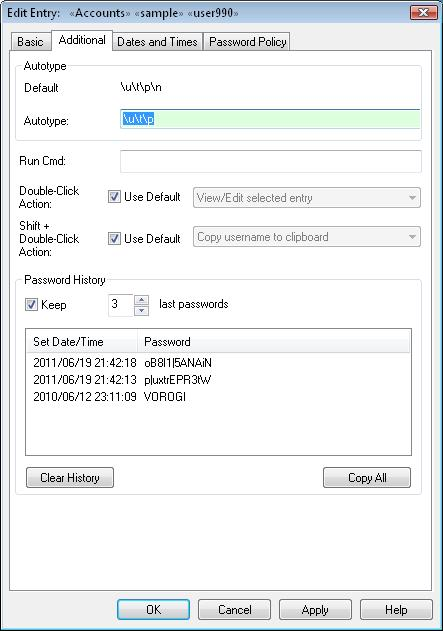
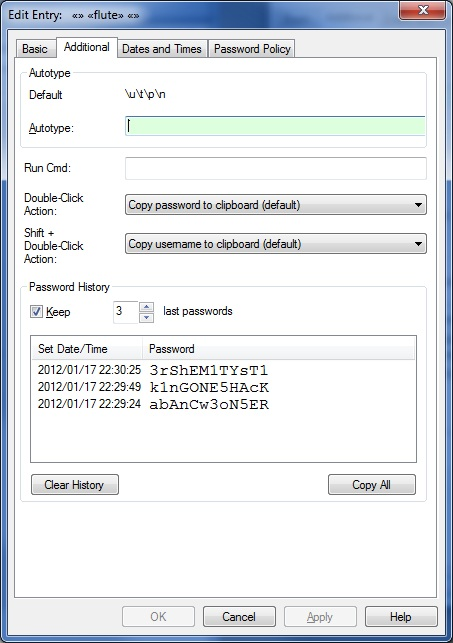
Finished cleaunp AddEdit_Additional

Changed region(s): [[0.0, 0.0, 1.0, 1.0]]

diff --git a/pwsafe/pwsafe/help/default/html/entering_pwd_add.html b/pwsafe/pwsafe/help/default/html/entering_pwd_add.html
@@ -34,10 +34,14 @@ to be run via the 'Run Command' action (via the Edit menu, right-click popup
 menu or Ctrl-R). <b>Password Safe</b> is able to pass arguments to the command
 such as the entry's username, password, etc., as described <a href="run_command.html">here</a>.</li>
 
-<li><b>Double click on entry:</b> This allows you to define what action
+<li><b>Double click and Shift-Double click on entry:</b> This allows you to define what action
 <b>Password Safe</b> will take when
-you double-click on an entry. The default is to copy the entry's
-password to the clipboard. The default action is set in <a href="misc_tab.html">
+you double-click, or double-click with Shift depressed, on an
+entry. The default is to copy the entry's password and username to the
+clipboard for double-click and shift + double-click, respectively. The
+default actions are set in <a href="misc_tab.html">, and marked with
+  "(default)" in the drop-down lists.
+
 "Manage&nbsp;&rarr;&nbsp;Options&nbsp;&rarr;&nbsp;Misc."</a> tab.</li>
 <li><b>Password History:</b> It is possible to configure <b>Password Safe</b>
 to save the last few passwords of an entry. This can be done either when the entry is created,

diff --git a/pwsafe/pwsafe/src/ui/Windows/AddEdit_Additional.cpp b/pwsafe/pwsafe/src/ui/Windows/AddEdit_Additional.cpp
@@ -34,8 +34,8 @@ CAddEdit_Additional::CAddEdit_Additional(CWnd * pParent, st_AE_master_data *pAEM
   : CAddEdit_PropertyPage(pParent, 
                           CAddEdit_Additional::IDD, CAddEdit_Additional::IDD_SHORT,
                           pAEMD),
-  m_UseDefaultDCA(TRUE), m_UseDefaultShiftDCA(TRUE), m_ClearPWHistory(false),
-  m_bSortAscending(true), m_pToolTipCtrl(NULL), m_bInitdone(false), m_iSortedColumn(-1)
+  m_ClearPWHistory(false), m_bSortAscending(true),
+  m_pToolTipCtrl(NULL), m_bInitdone(false), m_iSortedColumn(-1)
 {
   if (M_MaxPWHistory() == 0)
     M_MaxPWHistory() = PWSprefs::GetInstance()->
@@ -54,9 +54,6 @@ void CAddEdit_Additional::DoDataExchange(CDataExchange* pDX)
   //{{AFX_DATA_MAP(CAddEdit_Additional)
   DDX_Text(pDX, IDC_AUTOTYPE, (CString&)M_autotype());
   DDX_Text(pDX, IDC_RUNCMD, (CString&)M_runcommand());
-
-  DDX_Check(pDX, IDC_DCA_DEFAULT, m_UseDefaultDCA);
-  DDX_Check(pDX, IDC_SHIFT_DCA_DEFAULT, m_UseDefaultShiftDCA);
 
   DDX_Control(pDX, IDC_AUTOTYPE, m_ex_autotype);
   DDX_Control(pDX, IDC_RUNCMD, m_ex_runcommand);
@@ -85,9 +82,7 @@ BEGIN_MESSAGE_MAP(CAddEdit_Additional, CAddEdit_PropertyPage)
   ON_EN_CHANGE(IDC_RUNCMD, OnChanged)
 
   ON_CONTROL_RANGE(STN_CLICKED, IDC_STATIC_AUTO, IDC_STATIC_RUNCMD, OnSTCExClicked)
-  ON_BN_CLICKED(IDC_DCA_DEFAULT, OnSetDCACheck)
   ON_CBN_SELCHANGE(IDC_DOUBLE_CLICK_ACTION, OnDCAComboChanged)
-  ON_BN_CLICKED(IDC_SHIFT_DCA_DEFAULT, OnSetShiftDCACheck)
   ON_CBN_SELCHANGE(IDC_SHIFT_DOUBLE_CLICK_ACTION, OnShiftDCAComboChanged)
 
   // Password History
@@ -168,41 +163,28 @@ BOOL CAddEdit_Additional::OnInitDialog()
     GetDlgItem(IDC_AUTOTYPE)->SendMessage(EM_SETREADONLY, TRUE, 0);
     GetDlgItem(IDC_RUNCMD)->SendMessage(EM_SETREADONLY, TRUE, 0);
 
-    // Disable Checkbox
-    GetDlgItem(IDC_DCA_DEFAULT)->EnableWindow(FALSE);
+    // Disable Combobox
     GetDlgItem(IDC_DOUBLE_CLICK_ACTION)->EnableWindow(FALSE);
-    GetDlgItem(IDC_SHIFT_DCA_DEFAULT)->EnableWindow(FALSE);
     GetDlgItem(IDC_SHIFT_DOUBLE_CLICK_ACTION)->EnableWindow(FALSE);
   }
 
   // For some reason, MFC calls us twice when initializing.
-  // Populate the combo box only once.
+  // SetupDCAComboBoxes is idempotent
   SetupDCAComboBoxes(&m_dblclk_cbox, false);
   SetupDCAComboBoxes(&m_shiftdblclk_cbox, true);
 
-  if (M_DCA() < PWSprefs::minDCA || M_DCA() > PWSprefs::maxDCA) {
-    short iDCA = (short)PWSprefs::GetInstance()->
-                      GetPref(PWSprefs::DoubleClickAction);
-    m_dblclk_cbox.SetCurSel(m_DCA_to_Index[iDCA]);
-    m_dblclk_cbox.EnableWindow(FALSE);
-    m_UseDefaultDCA = TRUE;
-  } else {
-    m_dblclk_cbox.SetCurSel(m_DCA_to_Index[M_DCA()]);
-    m_dblclk_cbox.EnableWindow(TRUE);
-    m_UseDefaultDCA = FALSE;
-  }
+  short iDCA;
+  if (M_DCA() < PWSprefs::minDCA || M_DCA() > PWSprefs::maxDCA)
+    iDCA = (short)PWSprefs::GetInstance()->GetPref(PWSprefs::DoubleClickAction);
+  else
+    iDCA = M_DCA();
+  m_dblclk_cbox.SetCurSel(m_DCA_to_Index[iDCA]);
 
-  if (M_ShiftDCA() < PWSprefs::minDCA || M_ShiftDCA() > PWSprefs::maxDCA) {
-    short iDCA = (short)PWSprefs::GetInstance()->
-                      GetPref(PWSprefs::ShiftDoubleClickAction);
-    m_shiftdblclk_cbox.SetCurSel(m_DCA_to_Index[iDCA]);
-    m_shiftdblclk_cbox.EnableWindow(FALSE);
-    m_UseDefaultShiftDCA = TRUE;
-  } else {
-    m_shiftdblclk_cbox.SetCurSel(m_DCA_to_Index[M_ShiftDCA()]);
-    m_shiftdblclk_cbox.EnableWindow(TRUE);
-    m_UseDefaultShiftDCA = FALSE;
-  }
+  if (M_ShiftDCA() < PWSprefs::minDCA || M_ShiftDCA() > PWSprefs::maxDCA)
+    iDCA = (short)PWSprefs::GetInstance()->GetPref(PWSprefs::ShiftDoubleClickAction);
+  else
+    iDCA = M_ShiftDCA();
+  m_shiftdblclk_cbox.SetCurSel(m_DCA_to_Index[iDCA]);
 
   // Password History
   M_oldMaxPWHistory() = M_MaxPWHistory();
@@ -297,17 +279,17 @@ BOOL CAddEdit_Additional::OnInitDialog()
 void CAddEdit_Additional::SetupDCAComboBoxes(CComboBox *pcbox, bool isShift)
 {
   const struct {int res; int pref;} ResPref[] = {
-    {IDSC_DCAAUTOTYPE, PWSprefs::DoubleClickAutoType},
-    {IDSC_DCABROWSE, PWSprefs::DoubleClickBrowse},
-    {IDSC_DCABROWSEPLUS, PWSprefs::DoubleClickBrowsePlus},
-    {IDSC_DCACOPYNOTES, PWSprefs::DoubleClickCopyNotes},
-    {IDSC_DCACOPYPASSWORD, PWSprefs::DoubleClickCopyPassword},
+    {IDSC_DCAAUTOTYPE,        PWSprefs::DoubleClickAutoType},
+    {IDSC_DCABROWSE,          PWSprefs::DoubleClickBrowse},
+    {IDSC_DCABROWSEPLUS,      PWSprefs::DoubleClickBrowsePlus},
+    {IDSC_DCACOPYNOTES,       PWSprefs::DoubleClickCopyNotes},
+    {IDSC_DCACOPYPASSWORD,    PWSprefs::DoubleClickCopyPassword},
     {IDSC_DCACOPYPASSWORDMIN, PWSprefs::DoubleClickCopyPasswordMinimize},
-    {IDSC_DCACOPYUSERNAME, PWSprefs::DoubleClickCopyUsername},
-    {IDSC_DCAVIEWEDIT, PWSprefs::DoubleClickViewEdit},
-    {IDSC_DCARUN, PWSprefs::DoubleClickRun},
-    {IDSC_DCASENDEMAIL, PWSprefs::DoubleClickSendEmail},
-    {0, 0},
+    {IDSC_DCACOPYUSERNAME,    PWSprefs::DoubleClickCopyUsername},
+    {IDSC_DCAVIEWEDIT,        PWSprefs::DoubleClickViewEdit},
+    {IDSC_DCARUN,             PWSprefs::DoubleClickRun},
+    {IDSC_DCASENDEMAIL,       PWSprefs::DoubleClickSendEmail},
+    {0,                       0},
   };
   if (pcbox->GetCount() == 0) { // Make sure we're idempotent
     int DefaultDCA = PWSprefs::GetInstance()->GetPref(isShift ?
@@ -317,8 +299,10 @@ void CAddEdit_Additional::SetupDCAComboBoxes(CComboBox *pcbox, bool isShift)
 
     for (int i = 0; ResPref[i].res != 0; i++) {
       cs_text.LoadString(ResPref[i].res);
-      if (ResPref[i].pref == DefaultDCA)
-        cs_text += L" *";
+      if (ResPref[i].pref == DefaultDCA) {
+        const CString cs_default(MAKEINTRESOURCE(IDSC_DEFAULT));
+        cs_text += L" ("; cs_text += cs_default; cs_text += L")";
+      }
       int nIndex = pcbox->AddString(cs_text);
       pcbox->SetItemData(nIndex, ResPref[i].pref);
       m_DCA_to_Index[ResPref[i].pref] = nIndex;
@@ -531,38 +515,6 @@ error:
     ((CEdit *)pFocus)->SetSel(MAKEWORD(-1, 0));
 
   return FALSE;
-}
-
-void CAddEdit_Additional::OnSetDCACheck()
-{
-  m_ae_psh->SetChanged(true);
-
-  BOOL bEnable = ((CButton *)GetDlgItem(IDC_DCA_DEFAULT))->GetCheck() == BST_CHECKED ?
-                   FALSE : TRUE;
-
-  // Assuming FALSE = 0 & TRUE = 1
-  m_UseDefaultDCA = 1 - bEnable;
-  m_dblclk_cbox.EnableWindow(bEnable);
-  if (bEnable == FALSE)
-    M_DCA() = -1;
-  else
-    OnDCAComboChanged();
-}
-
-void CAddEdit_Additional::OnSetShiftDCACheck()
-{
-  m_ae_psh->SetChanged(true);
-
-  BOOL bEnable = ((CButton *)GetDlgItem(IDC_SHIFT_DCA_DEFAULT))->GetCheck() == BST_CHECKED ?
-                   FALSE : TRUE;
-
-  // Assuming FALSE = 0 & TRUE = 1
-  m_UseDefaultShiftDCA = 1 - bEnable;
-  m_shiftdblclk_cbox.EnableWindow(bEnable);
-  if (bEnable == FALSE)
-    M_ShiftDCA() = -1;
-  else
-    OnShiftDCAComboChanged();
 }
 
 void CAddEdit_Additional::OnDCAComboChanged()

diff --git a/pwsafe/pwsafe/src/ui/Windows/resource.h b/pwsafe/pwsafe/src/ui/Windows/resource.h
@@ -658,7 +658,6 @@
 #define IDC_SETSAMPLETEXT               1373
 #define IDC_RESETFONT                   1374
 #define IDC_ENTRYPWPOLICY               1376
-#define IDC_DCA_DEFAULT                 1378
 #define IDC_LAUNCH                      1379
 #define IDC_SENDEMAIL                   1380
 #define IDC_STATIC_PWH_ADD              1381
@@ -729,7 +728,6 @@
 #define IDC_STATIC_DEFAUTOTYPE          1447
 #define IDC_STATIC_PSWDLENGTH           1448
 #define IDC_SHIFT_DOUBLE_CLICK_ACTION   1449
-#define IDC_SHIFT_DCA_DEFAULT           1450
 #define IDC_STATIC_PREFERENCES          1453
 #define IDC_STATIC_DB_PREFS_RO_WARNING  1454
 #define IDC_DATABASE_NAME               1455

diff --git a/pwsafe/pwsafe/src/ui/Windows/AddEdit_Additional.h b/pwsafe/pwsafe/src/ui/Windows/AddEdit_Additional.h
@@ -37,7 +37,6 @@ public:
 
   CComboBox m_dblclk_cbox;
   CComboBox m_shiftdblclk_cbox;
-  BOOL m_UseDefaultDCA, m_UseDefaultShiftDCA;
   int m_DCA_to_Index[PWSprefs::maxDCA + 1];
 
   CPWHistListCtrl m_PWHistListCtrl;
@@ -68,8 +67,6 @@ protected:
   afx_msg void OnShiftDCAComboChanged();
   afx_msg void OnChanged();
 
-  afx_msg void OnSetDCACheck();
-  afx_msg void OnSetShiftDCACheck();
   afx_msg void OnSTCExClicked(UINT nId);
   afx_msg void OnCheckedSavePasswordHistory();
   afx_msg void OnHeaderClicked(NMHDR *pNotifyStruct, LRESULT *pLResult);

diff --git a/pwsafe/pwsafe/src/core/core.h b/pwsafe/pwsafe/src/core/core.h
@@ -268,3 +268,4 @@
 #define IDSC_DCABROWSEPLUS              4008
 #define IDSC_DCARUN                     4009
 #define IDSC_DCASENDEMAIL               4010
+#define IDSC_DEFAULT                    4011
